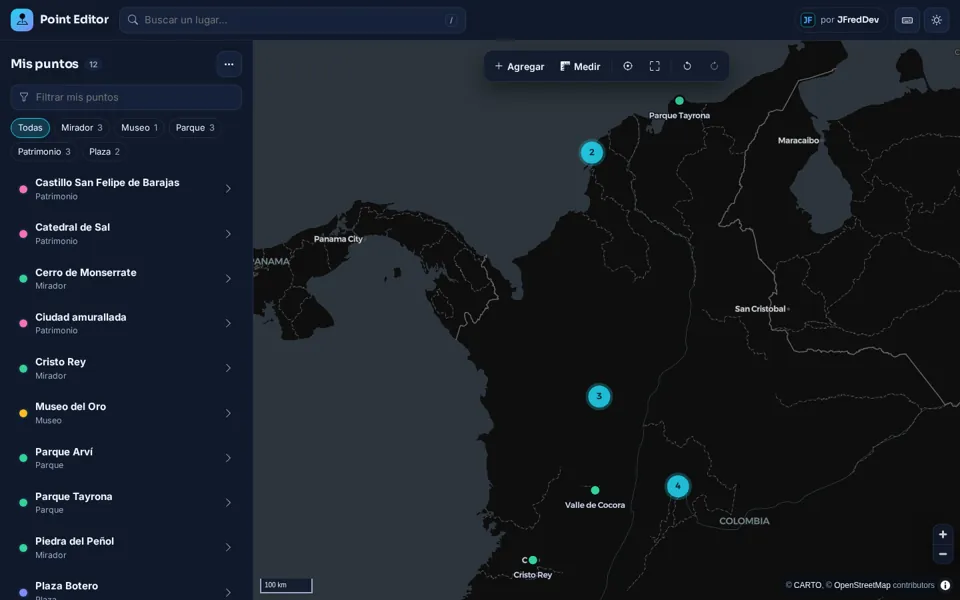
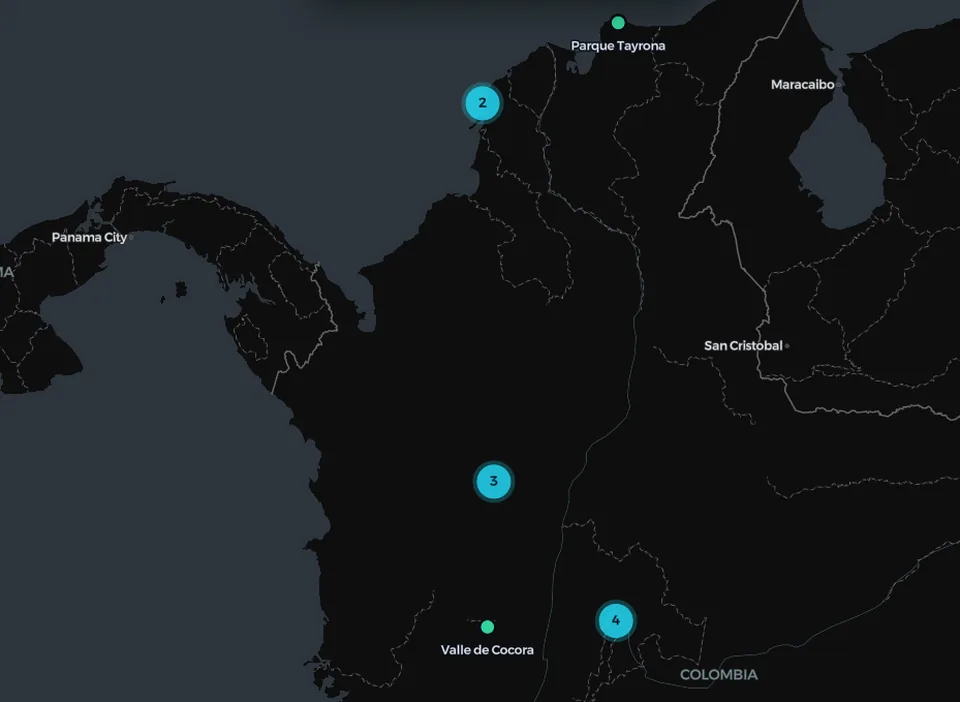
fix(projects): miniatura centrada y descripción corta de Point Editor

diff --git a/src/app/features/projects/projects.ts b/src/app/features/projects/projects.ts
@@ -18,7 +18,7 @@ export class Projects {
   projects: IProject[] = [
     {
       title: 'Point Editor',
-      description: 'Editor de puntos sobre mapa: búsqueda de lugares, filtros por categoría, agrupación, medición de distancias e importación/exportación GeoJSON y CSV',
+      description: 'Mapa interactivo con búsqueda, filtros, medición y GeoJSON/CSV',
       tech: ['Angular', 'MapLibre', 'TypeScript'],
       codeLink: 'https://github.com/JFredMC/point-editor',
       demoLink: 'https://jfredmc.github.io/point-editor/',
